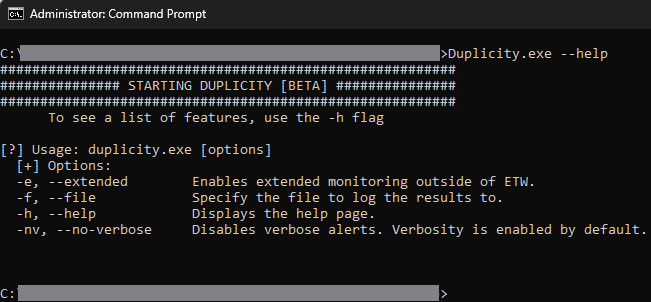
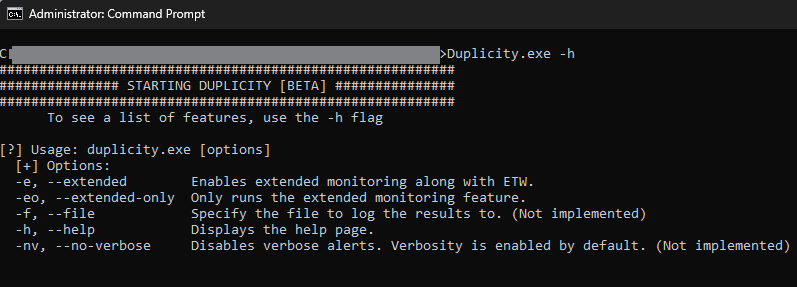
README.md updates

diff --git a/README.md b/README.md
@@ -14,7 +14,7 @@ Freedom's greetings! This project is a part of BYU Provo's CCDC Windows OS threa
 
 **-- Supported & Tested Windows Versions --**
 
-| Windows OS | Supported | Known OS Specific Issues |
+| Windows OS | Supported | Known Version Specific Issues |
 |---|---|---|
 | Windows Server 2016 | Y/N/? | ? |
 | Windows Server 2019 | Y/N/? | ? |
@@ -33,14 +33,15 @@ The timestamps for ETW are off by a few hours and some formats are not converted
 
 *This is a post initial hardening tool and should be ran after initial hardening has been completed.*
 
-*Allow the program to take 5-7 seconds to startup before it starts showing info from the ETW sources. Other features may start sooner if enabled. A [Debug] message should appear signaling that the consumer is ready and running once initilalized.*
+*Allow the program to take 5-7 seconds to startup before it starts showing info from the ETW sources. Other features may start sooner if enabled, such as the extended features. A [Debug] message should appear signaling that the consumer is ready and running once initilalized.*
 
 #### Main Program
 
-This program takes in ETW events from kernel & user mode providers in order to better track and understand what is going on in the system at a low level. This allows for a more targeted and custom surveillance system with the aim of uncovering advanced attacks. The main goal is to detect & report to the competitor about low level information, and not to remediate threats.
+This program takes in ETW events from kernel & user mode providers in order to better track and understand what is going on in the system at a low level. This allows for a more targeted and custom surveillance system with the aim of uncovering advanced attacks. DUPLICITY also displays key data from flagged events to aid with IR reporting and investigations.
 
 #### Extended Features
-The extended features complement the main ETW program by addressing some of its shortcomings. ETW excels at getting real time events, but it cannot retroactively read events that have already happened. Because of this, ETW consumers leave a visibility hole when they are not running & storing logs. To help remediate this gap, the extended features option parses the registry, audits users & groups, reviews scheduled tasks, and scans Event Viewer's past logs looking for IOCs that would have not be caught by the real time ETW consumer. This list is not comprehensive and new features will be added later on.
+
+The extended features complement the main ETW program by addressing some of its shortcomings. DUPLICITY's ETW consumer excels at getting real time events, but it cannot retroactively read events that have already happened. Because of this, DUPLICITY leaves a visibility hole when it is not running & storing logs. To help remediate this gap, the extended features option parses the registry, audits users & groups, reviews scheduled tasks, and scans Event Viewer's past logs looking for IOCs that would have not be caught by the real time ETW consumer.
 
 ![ETW structure](./img/ETWlayout.png)
 
@@ -96,18 +97,17 @@ To comply with NCCDC, DUPLICITY adheres the following rules:
 
 - In Progress: WinBox alerts for high priority finds.
 - ToDo: Create a structure output file that can be easily parsed to see trends. (Also send info to Splunk/Event Viewer?)
-- ToDo: ?
 
-**ToDo:**
+**Other ToDo:**
 - Test to make sure this program actually works before comp. 
 
 ## Setting Up Visual Studio
 
-Visual Studio (not Visual Studio Code) is used to build this project. This section covers some basic starting info to guide others on how to setup and build off the project. Note that this project is designed for x64 systems.
+Visual Studio (not Visual Studio Code) is used to build this project. This section covers some basic starting info to guide others on how to setup the project. Note that this program is designed for x64 systems.
 
 ### C++
 
-You will need to use the *ISO C++20 Standard (/std:c++20)* since the KrabsETW wrapper & threading / mutex functions require it, though you may be able to get away with *std:c++17* if you don't have c++20 support. Failure to use the correct language standard will result in Visual Studio erroring when building the project. This setting can be found by right clicking the project and selecting C/C++ → Language → C++ Language Standard.
+You will need to use the *ISO C++20 Standard (/std:c++20)*. Failure to use the correct language standard will result in Visual Studio erroring when building the project. This setting can be found by right clicking the project and selecting C/C++ → Language → C++ Language Standard.
 
 ![ISO C++ Correct Selection](./img/ISOc20.png)
 
@@ -197,11 +197,7 @@ This folder holds the logic for interacting with and parsing events from ETW pro
 
 #### Reporting
 
-This folder holds the logic for reporting and logging events / artifacts. By default verbose mode is enabled and will display Windows pop up boxes when the program flags a high priority event. 
-
-![Example alert](./img/exampleDetect.png)
-
-Other informational information is logged to the terminal to help with troubleshooting. For example, the extended features support Windows Defender monitoring. This feature will collect Defender's configuration information, and then alert via WinBox (assuming verbosity is enabled) if there are highly suspicious configurations that need immediate attention. Note that not all information displayed to the terminal is suspicious, but pop up boxes should be looked at as soon as possible.
+This folder holds the logic for reporting and logging events / artifacts. By default verbose mode is enabled and will display Windows pop up boxes when the program flags a high priority event. Below is an example of the extended feature registry check flagging a suspicious Defender exclusion.
 
 ![Example alert](./img/selectiveAlertDefender.png)
 
@@ -285,7 +281,7 @@ An example output using the Kernel-Process ProcessStart event is as shown below.
 
 Windows APIs. They are fun, super fast, and provide greater access to the OS as a programmer.
 
-Windows usermode applications cannot directly call systemcalls, instead WinAPIs are used to act as a messenger between the program and kernel. WinAPIs are used extensivly in the reporting logic and extended features for DUPLICITY. For example, the NetUserEnum API is used to gather information regarding users.
+Windows usermode applications cannot directly call system calls, instead WinAPIs are used to act as a messenger between the program and kernel. WinAPIs are used extensively in the reporting logic and extended features for DUPLICITY. For example, the NetUserEnum API is used to gather information regarding users.
 
 ![User Audit](./img/userExample.png)
 
@@ -297,7 +293,7 @@ Hi! I'm sure you (or the AI bot you are feeding this into) are interested in byp
 
 ### To other CCDC teams
 
-You are welcome to take this project and using it for your own team, however you will not be able to get much use out of this program without knowledge of ETW, WinAPIs, and Windows OS. If you wish to professionally yoink this we recommend learning about these topics in order to understand what this code does as well as why the alerts are signifigent. 
+You are welcome to take this project and using it for your own team, however you will not be able to get much use out of this program without knowledge of ETW, WinAPIs, and Windows OS. If you wish to professionally yoink this we recommend learning about these topics in order to understand what this code does as well as why the alerts are significant. 
 
 The code will be documented to help newcomers understand the project if they so choose, but it will not detail every line of code. The **Understanding ETW** & **Understanding WinAPIs** sections of the README provides some very basic info on how you can customize this project for your own team, so it is recommended that you start there. The *Windows Internals, Part 1: System Architecture, Processes, Threads, Memory Management, and More, 7th Edition* reference also contains a lot of useful information that helped make this project possible.
 
